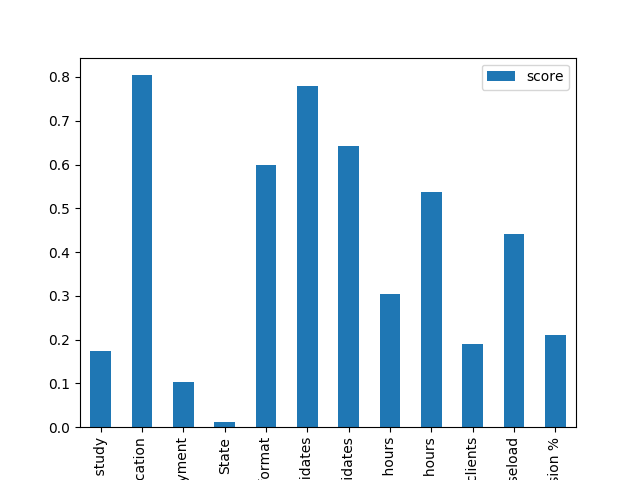
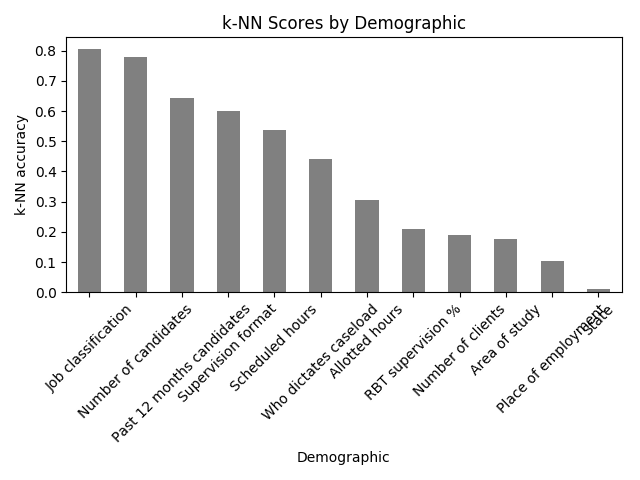
cleaned up question_5.py graph

diff --git a/Q5/question_5.py b/Q5/question_5.py
@@ -101,8 +101,15 @@ def question5(df, demo_list, bx_list):
 		# Assign knn score to dataframe position
 		scores.loc[demo, 'score'] = round(ks, 3)
 		
+	# Arrange df in descending order
+	scores.sort_values(by='score', ascending=False, inplace=True)
+
 	# Make a boxplot
-	_ = scores.plot.bar()
+	_ = scores.plot.bar(color='gray', legend=False)
+	_ = plt.title('k-NN Scores by Demographic')
+	_ = plt.xlabel('Demographic')
+	_ = plt.ylabel('k-NN accuracy')
+	_ = plt.tight_layout()
 	_ = plt.savefig('k-NN Scores.png')
 	_ = plt.show()
 
